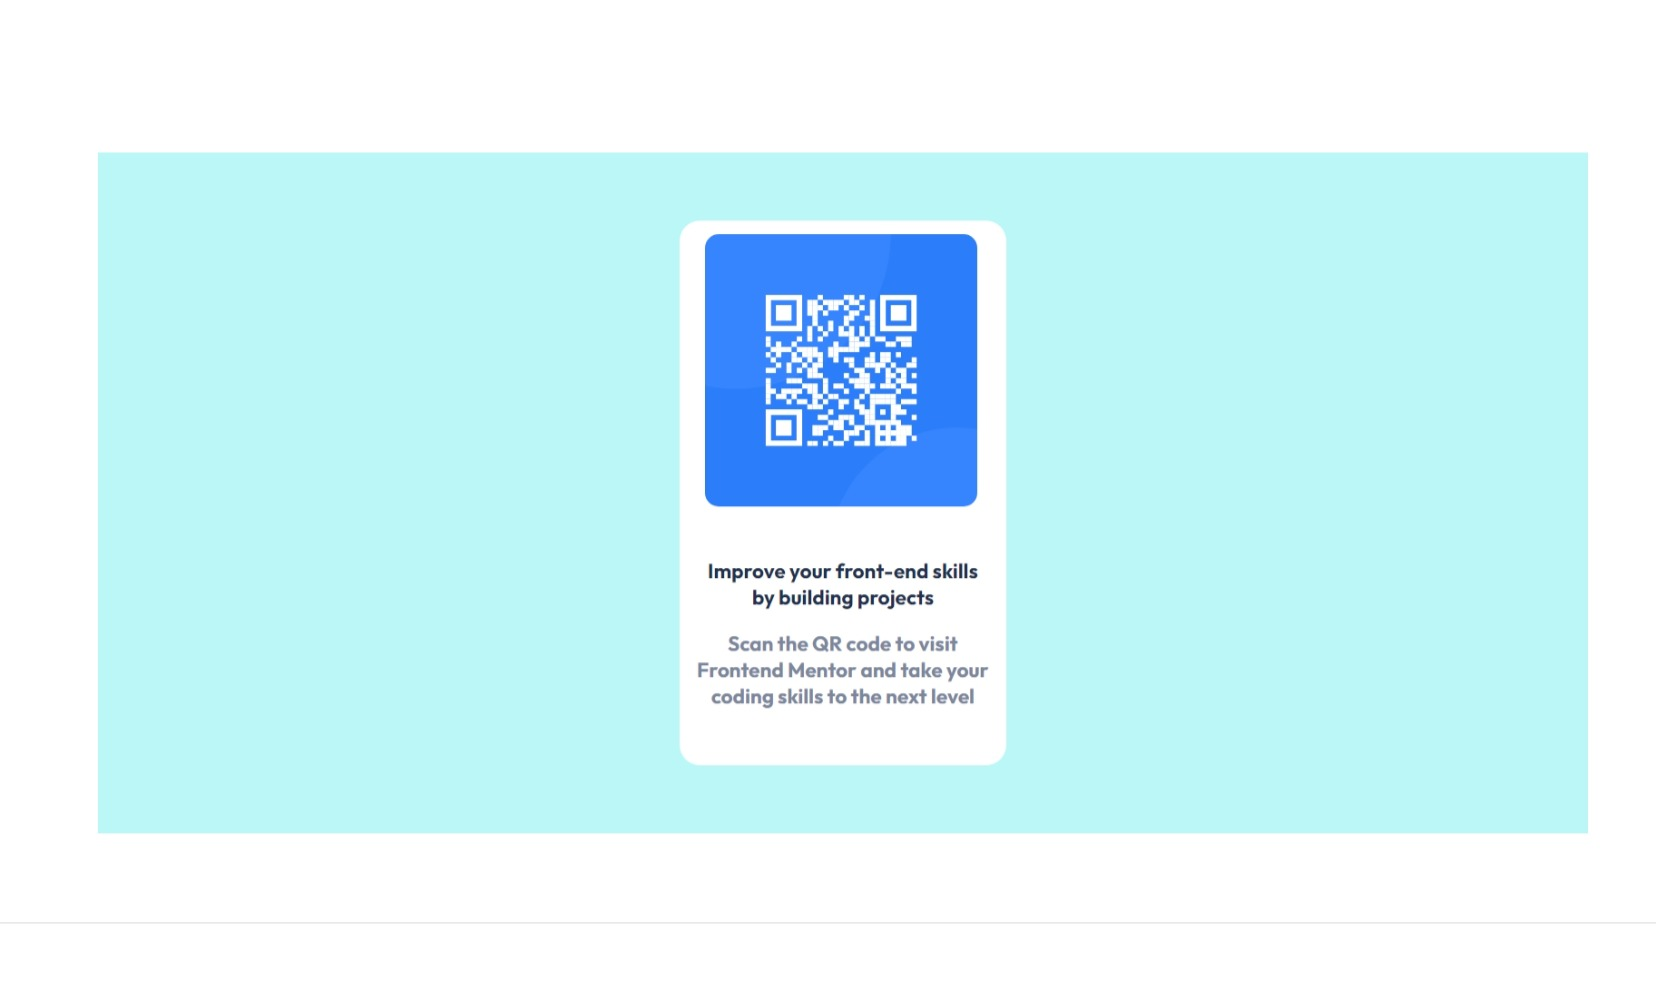
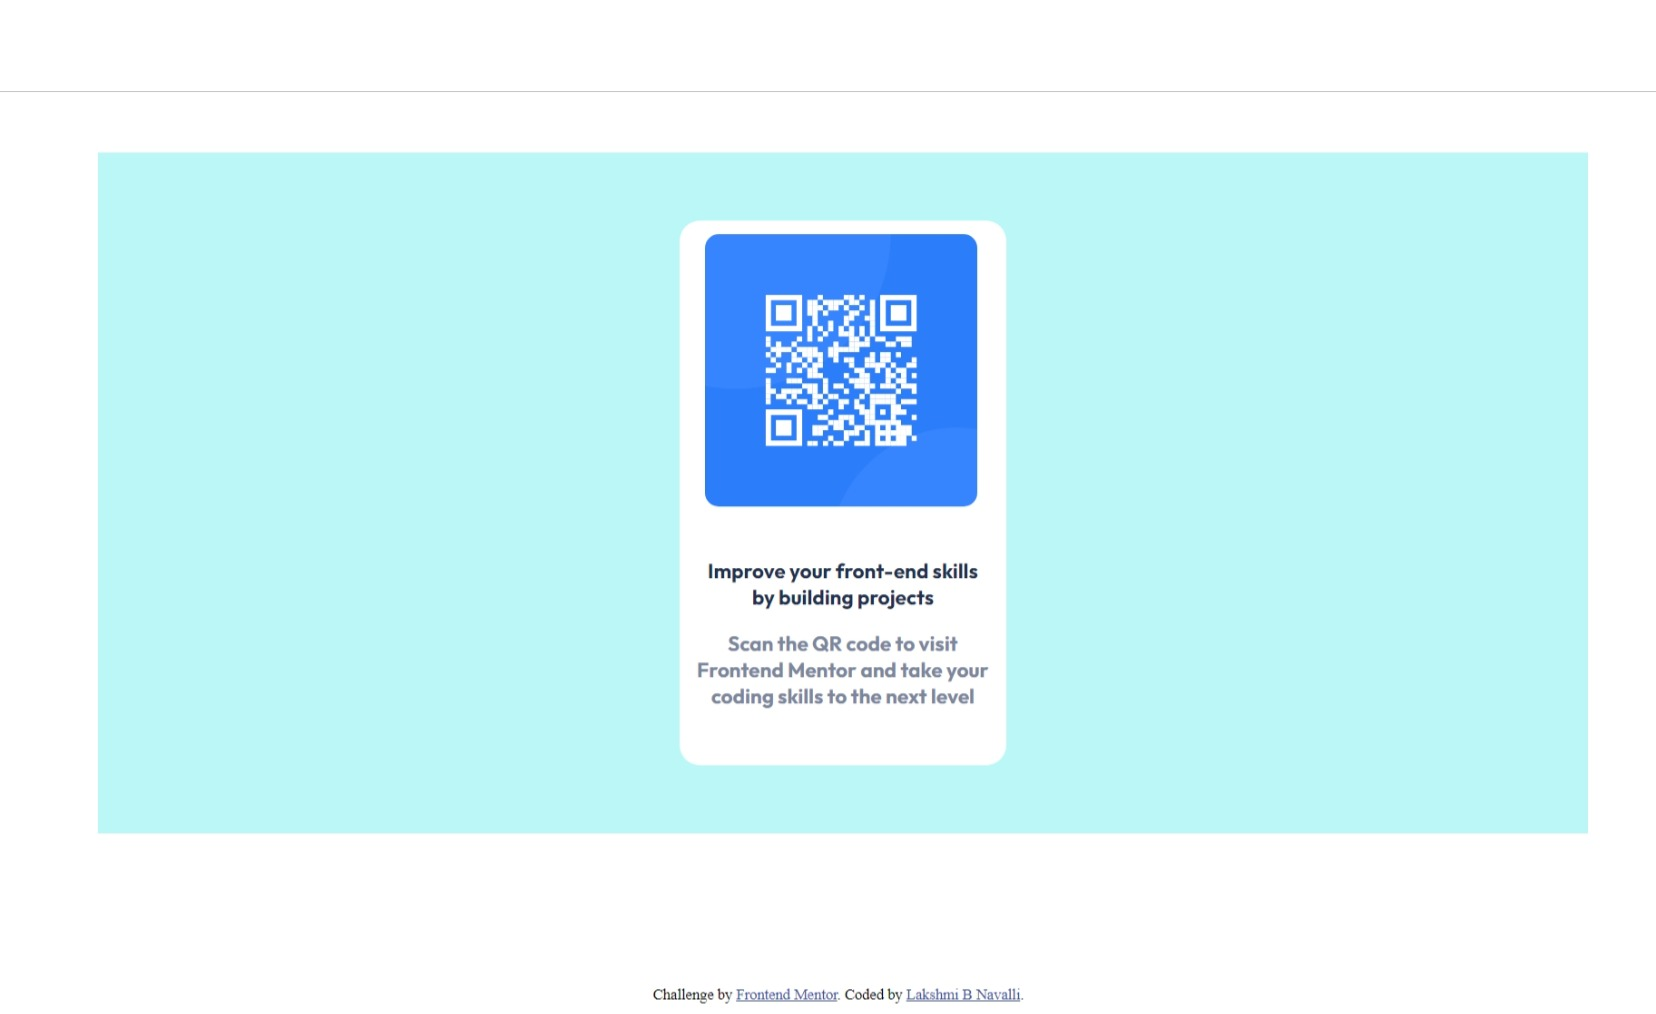
files are updated

diff --git a/index.html b/index.html
@@ -23,5 +23,9 @@
             </div>
         </div>
     </div>
+    <div class="attribution">
+        Challenge by <a href="https://www.frontendmentor.io?ref=challenge" target="_blank">Frontend Mentor</a>. 
+        Coded by <a href="https://www.frontendmentor.io/solutions/qr-code-using-html-and-css-diHrN6RBG9">Lakshmi B Navalli</a>.
+      </div>
 </body>
 </html>

diff --git a/index.css b/index.css
@@ -41,3 +41,10 @@ body{
     color: hsl(220, 15%, 55%);
     font-weight: 400;  
 }
+.attribution { 
+    font-size: 11px; 
+    text-align: center; 
+}
+.attribution a { 
+    color: hsl(228, 45%, 44%); 
+}

diff --git a/README.md b/README.md
@@ -18,7 +18,7 @@ This is a solution to the [QR code component challenge on Frontend Mentor](https
 
 ### Screenshot
 
-![screenshot](images/screenshot.jpg)
+![screenshot](images/screenshot.jpeg)
 
 ### Links
 
